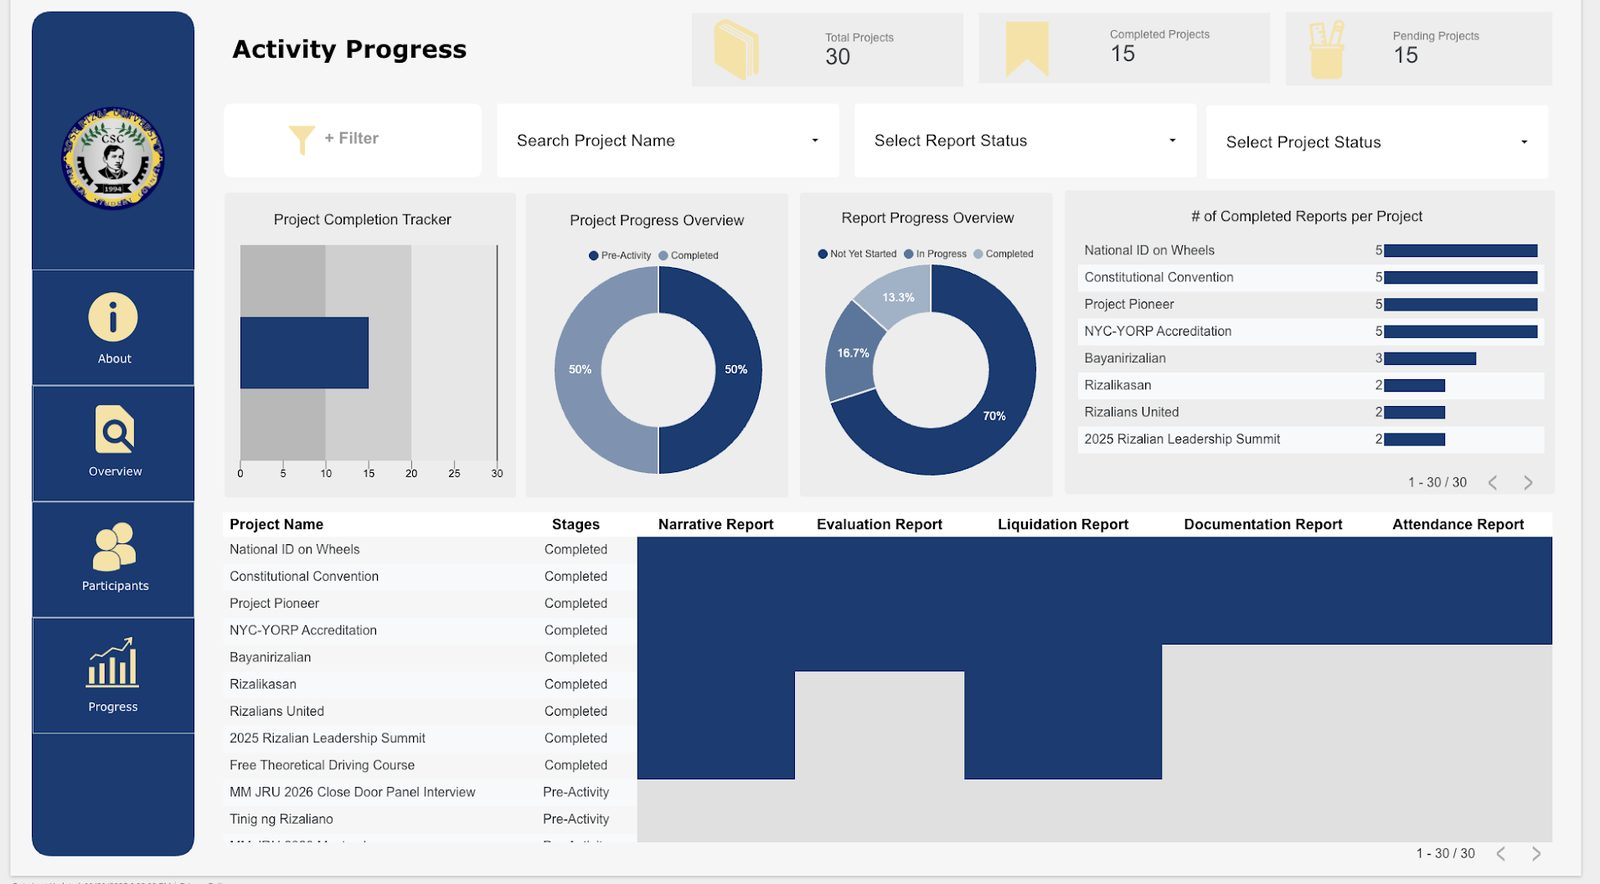
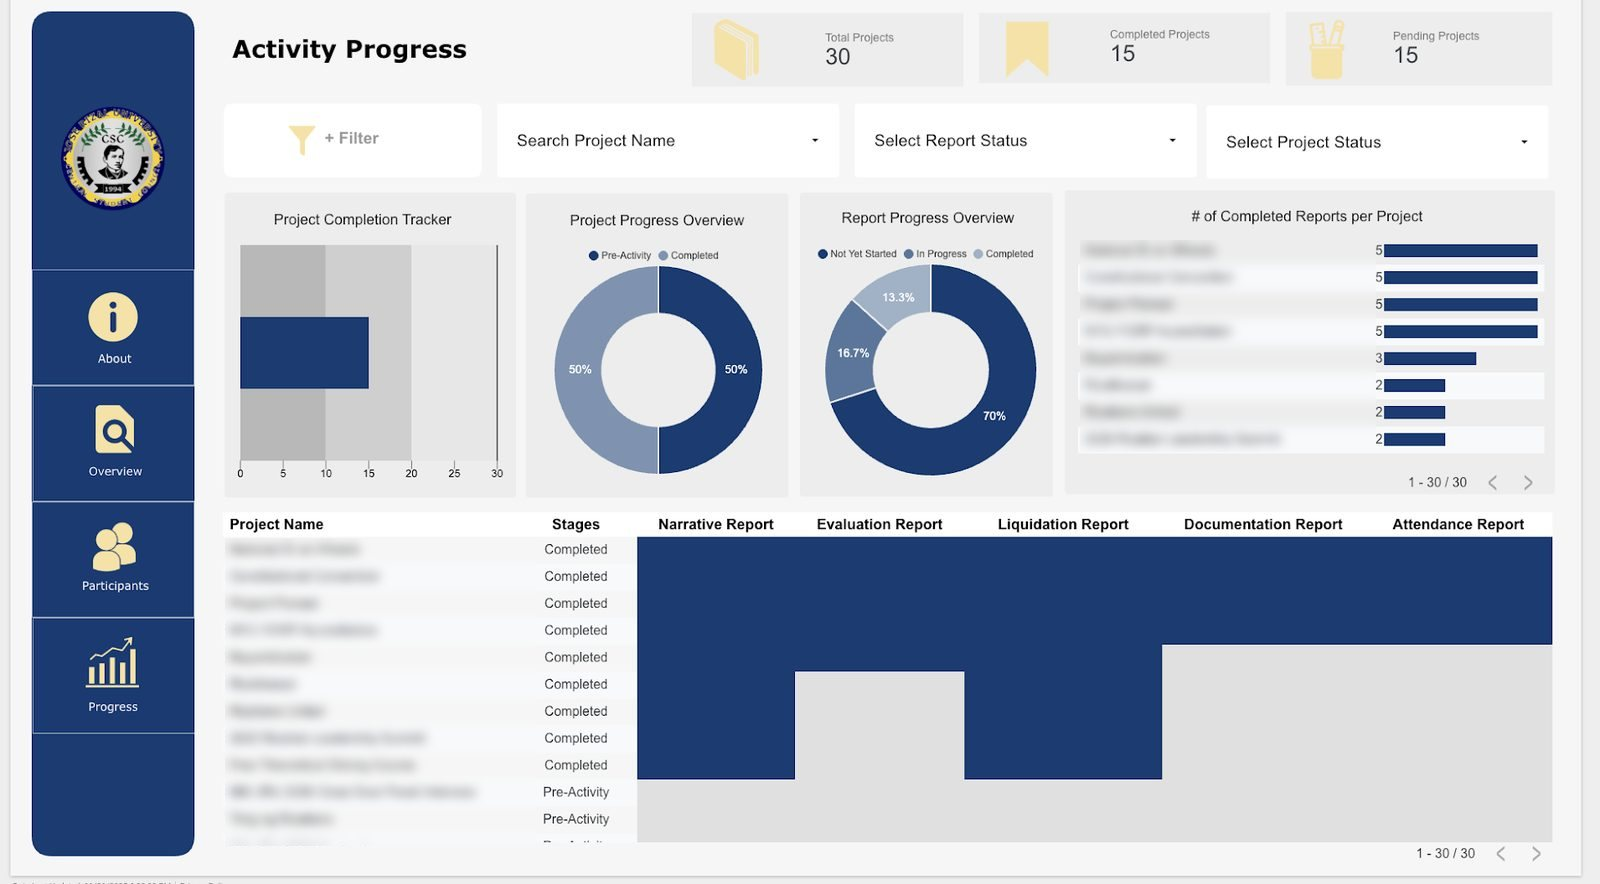
Update portfolio site to v1.2.0
Remove coursework filter, fix dangling intro lines, blur names in dashboard screenshots.

Changed region(s): [[0.125, 0.6109, 0.3125, 0.9468], [0.6562, 0.2749, 0.8125, 0.5192]]

diff --git a/coursework.html b/coursework.html
@@ -27,20 +27,20 @@
 
 <header class="page-head">
   <div class="wrap">
-    <p class="eyebrow">2023 &ndash; 2026</p>
     <h1>Coursework</h1>
-    <p>More analytics work from my four years at José Rizal University, beyond the <a href="index.html#projects">featured projects</a>. Most are IEEE-format reports; each opens as a PDF.</p>
+    <p>More analytics work from my four years at JRU, beyond the <a href="index.html#projects">featured projects</a>. Click a preview to open the report.</p>
   </div>
 </header>
 
 <main>
-<section>
+<section class="coursework-list">
   <div class="wrap">
 
-    <div class="year">
+    <div class="year" data-year="4">
       <h3>4th year</h3>
       <div class="cards">
         <article class="card">
+          <a class="thumb" href="files/C611_Chunk_Size_Experiment_Report.pdf" target="_blank" rel="noopener"><img src="assets/cw_C611_Chunk_Size_Experiment_Report.jpg" alt="Preview: Chunk size and overlap for FAISS retrieval: a controlled experiment" loading="lazy"></a>
           <p class="tag">ITC C611 · Analytics Application</p>
           <h4>Chunk size and overlap for FAISS retrieval: a controlled experiment</h4>
           <p>Fifteen chunking configurations, each with its own FAISS index, scored on 30 verified questions over a student-organization constitution, with bootstrap confidence intervals and Holm-corrected tests. Chunk size mattered; overlap barely did.</p>
@@ -49,6 +49,7 @@
           <div class="links"><a class="btn ghost small" href="files/C611_Chunk_Size_Experiment_Report.pdf" target="_blank" rel="noopener">Read report</a></div>
         </article>
         <article class="card">
+          <a class="thumb" href="files/C611_RAG_Tuning_GPU_Testing_Report.pdf" target="_blank" rel="noopener"><img src="assets/cw_C611_RAG_Tuning_GPU_Testing_Report.jpg" alt="Preview: RAG chatbot parameter tuning and GPU testing" loading="lazy"></a>
           <p class="tag">ITC C611 · Analytics Application</p>
           <h4>RAG chatbot parameter tuning and GPU testing</h4>
           <p>Tuned chunk size, overlap and top-k for a constitution chatbot, scoring answer quality on 30 verified questions, then benchmarked three configurations on a T4 GPU against a CPU-only runtime.</p>
@@ -57,6 +58,7 @@
           <div class="links"><a class="btn ghost small" href="files/C611_RAG_Tuning_GPU_Testing_Report.pdf" target="_blank" rel="noopener">Read report</a></div>
         </article>
         <article class="card">
+          <a class="thumb" href="files/C611_PT-P2_Keras_Hyperparameter_Ablation_Report.pdf" target="_blank" rel="noopener"><img src="assets/cw_C611_PT-P2_Keras_Hyperparameter_Ablation_Report.jpg" alt="Preview: Hyperparameter ablation and loss diagnostics in Keras" loading="lazy"></a>
           <p class="tag">ITC C611 · Analytics Application</p>
           <h4>Hyperparameter ablation and loss diagnostics in Keras</h4>
           <p>Rebuilt an airline-feedback text classifier in Keras and ran seven experiments on learning rate, layer size, dropout, optimizer, batch size and epochs, using loss curves to diagnose underfitting and overfitting.</p>
@@ -65,6 +67,7 @@
           <div class="links"><a class="btn ghost small" href="files/C611_PT-P2_Keras_Hyperparameter_Ablation_Report.pdf" target="_blank" rel="noopener">Read report</a></div>
         </article>
         <article class="card">
+          <a class="thumb" href="files/C611_PT-P1_Neural_Text_Classification_Report.pdf" target="_blank" rel="noopener"><img src="assets/cw_C611_PT-P1_Neural_Text_Classification_Report.jpg" alt="Preview: Neural text classification for airline customer feedback triage" loading="lazy"></a>
           <p class="tag">ITC C611 · Analytics Application</p>
           <h4>Neural text classification for airline customer feedback triage</h4>
           <p>A no-code neural classifier that sorts simulated airline feedback into four classes. Beyond the required tests, I scaled up the training set and ran adversarial rounds that exposed shortcut learning.</p>
@@ -73,6 +76,7 @@
           <div class="links"><a class="btn ghost small" href="files/C611_PT-P1_Neural_Text_Classification_Report.pdf" target="_blank" rel="noopener">Read report</a></div>
         </article>
         <article class="card">
+          <a class="thumb" href="files/C611_PT-M1_Governance_Chatbot_Report.pdf" target="_blank" rel="noopener"><img src="assets/cw_C611_PT-M1_Governance_Chatbot_Report.jpg" alt="Preview: A retrieval-augmented chatbot for student-organization governance" loading="lazy"></a>
           <p class="tag">ITC C611 · Analytics Application</p>
           <h4>A retrieval-augmented chatbot for student-organization governance</h4>
           <p>Evaluated a RAG chatbot over the JPCS-JRU Constitution and By-Laws on grounding and refusal, across three configurations and five sessions. Removing the fallback directive changed how it refused, not whether it refused.</p>
@@ -83,10 +87,11 @@
       </div>
     </div>
 
-    <div class="year">
+    <div class="year" data-year="3">
       <h3>3rd year</h3>
       <div class="cards">
         <article class="card">
+          <a class="thumb" href="files/C610_HR_Predictive_Modeling_Report.pdf" target="_blank" rel="noopener"><img src="assets/cw_C610_HR_Predictive_Modeling_Report.jpg" alt="Preview: Predictive modeling in human resources" loading="lazy"></a>
           <p class="tag">ITC C610 · Fundamentals of Analytics Modelling</p>
           <h4>Predictive modeling in human resources</h4>
           <p>A case-study review of a published study on predicting employee turnover, covering the business problem, the IBM HR Analytics dataset, the key predictors, and how four classifiers were compared.</p>
@@ -97,10 +102,11 @@
       </div>
     </div>
 
-    <div class="year">
+    <div class="year" data-year="2">
       <h3>2nd year</h3>
       <div class="cards">
         <article class="card">
+          <a class="thumb" href="files/C605_LA_Traffic_Collisions_Report.pdf" target="_blank" rel="noopener"><img src="assets/cw_C605_LA_Traffic_Collisions_Report.jpg" alt="Preview: Data analysis of traffic collisions in Los Angeles" loading="lazy"></a>
           <p class="tag">ITC C605 · Statistical Analysis Using R</p>
           <h4>Data analysis of traffic collisions in Los Angeles</h4>
           <p>Cleaning, demographic and time-pattern EDA, and a leaflet map of LAPD collision data. A regression that broke its assumptions was fixed with a log transformation.</p>
@@ -109,6 +115,7 @@
           <div class="links"><a class="btn ghost small" href="files/C605_LA_Traffic_Collisions_Report.pdf" target="_blank" rel="noopener">Read report</a></div>
         </article>
         <article class="card">
+          <a class="thumb" href="files/C605_R_Pipes_Data_Operations_Report.pdf" target="_blank" rel="noopener"><img src="assets/cw_C605_R_Pipes_Data_Operations_Report.jpg" alt="Preview: Basic analysis and data operations using R pipes" loading="lazy"></a>
           <p class="tag">ITC C605 · Statistical Analysis Using R</p>
           <h4>Basic analysis and data operations using R pipes</h4>
           <p>Cleaned and analysed the UCI Online Retail dataset with dplyr pipes, filtering out non-revenue entries and calculating transaction totals.</p>
@@ -117,6 +124,7 @@
           <div class="links"><a class="btn ghost small" href="files/C605_R_Pipes_Data_Operations_Report.pdf" target="_blank" rel="noopener">Read report</a></div>
         </article>
         <article class="card">
+          <a class="thumb" href="files/C605_AFL_Analysis_Report.pdf" target="_blank" rel="noopener"><img src="assets/cw_C605_AFL_Analysis_Report.jpg" alt="Preview: Analysis of the Australian Football League using R" loading="lazy"></a>
           <p class="tag">ITC C605 · Statistical Analysis Using R</p>
           <h4>Analysis of the Australian Football League using R</h4>
           <p>Descriptive statistics on AFL match margins and finalists in RStudio, documenting the commands used, the errors met and how each was fixed.</p>
@@ -127,10 +135,11 @@
       </div>
     </div>
 
-    <div class="year">
+    <div class="year" data-year="1">
       <h3>1st year</h3>
       <div class="cards">
         <article class="card">
+          <a class="thumb" href="assets/cw_C604_Excel.jpg" target="_blank" rel="noopener"><img src="assets/cw_C604_Excel.jpg" alt="Preview: Consumer shopping behavior: Excel analysis" loading="lazy"></a>
           <p class="tag">ITC C604 · Data Analysis Using Excel</p>
           <h4>Consumer shopping behavior: Excel analysis</h4>
           <p>Computed the percentage change in each customer's purchases, split customers into top and bottom groups, and compared them with descriptive statistics, conditional formatting, a histogram and an outlier check.</p>
@@ -144,6 +153,7 @@
   </div>
 </section>
 </main>
+
 
 <footer>
   <div class="wrap">

diff --git a/index.html b/index.html
@@ -50,12 +50,35 @@
     <div class="section-head">
       <div>
         <h2>Featured projects</h2>
-        <p>Selected work from my analytics courses and capstone. Reports open as PDFs; live apps open in a new tab.</p>
+        <p>Selected work from my analytics courses and capstone.</p>
       </div>
       <a class="btn ghost small" href="coursework.html">All coursework &rarr;</a>
     </div>
 
     <div class="projects">
+
+      <!-- 1. AURA (capstone) -->
+      <article class="project">
+        <div>
+          <p class="tag">ITC C310 / C403 · IT Project (Capstone) · 2026</p>
+          <h3>AURA: retention analytics for a real client</h3>
+          <p>Our capstone, built for the Analytics and AI Association of the Philippines. AURA pulls the association's membership, event, registration, attendance and survey records into one system, then flags members who are likely to lapse and explains each flag in plain language.</p>
+          <ul class="stats">
+            <li><div class="num">2.7&times;</div><div class="lbl">Better than chance at spotting lapses (PR-AUC 0.516 vs 0.192)</div></li>
+            <li><div class="num">4.22 / 5</div><div class="lbl">Rating from 30 evaluators (ISO/IEC 25010)</div></li>
+          </ul>
+          <p class="role">System Developer, team of two · cleaned 1,790 member records and 43 engagement files, built the retention model, and delivered every change our panel requested</p>
+          <ul class="chips"><li>Python</li><li>scikit-learn</li><li>SMOTE-NC</li><li>SHAP</li><li>PostgreSQL</li></ul>
+          <div class="links">
+            <a class="btn ghost small" href="https://aapreportsandanalytics.org" target="_blank" rel="noopener">Live system (login required)</a>
+          </div>
+          <p class="note">AURA is a private client system, so its documents and data stay private.</p>
+        </div>
+        <a class="media cover" href="https://aapreportsandanalytics.org" target="_blank" rel="noopener">
+          <img src="assets/prev_aura.jpg" alt="AURA logo" loading="lazy">
+          <span class="cap">Private client system</span>
+        </a>
+      </article>
 
       <!-- 1. RAG chatbot -->
       <article class="project">
@@ -104,29 +127,6 @@
         <a class="media navy" href="files/C612_EBEWE_Data_Story.pdf" target="_blank" rel="noopener">
           <img src="assets/prev_ebewe.jpg" alt="Cover slide of the data story: When a building fails, what actually failed?" loading="lazy">
           <span class="cap">Data story</span>
-        </a>
-      </article>
-
-      <!-- 3. AURA -->
-      <article class="project">
-        <div>
-          <p class="tag">ITC C310 / C403 · IT Project (Capstone) · 2026</p>
-          <h3>AURA: retention analytics for a real client</h3>
-          <p>Our capstone, built for the Analytics and AI Association of the Philippines. AURA pulls the association's membership, event, registration, attendance and survey records into one system, then flags members who are likely to lapse and explains each flag in plain language.</p>
-          <ul class="stats">
-            <li><div class="num">2.7&times;</div><div class="lbl">Better than chance at spotting lapses (PR-AUC 0.516 vs 0.192)</div></li>
-            <li><div class="num">4.22 / 5</div><div class="lbl">Rating from 30 evaluators (ISO/IEC 25010)</div></li>
-          </ul>
-          <p class="role">System Developer, team of two · cleaned 1,790 member records and 43 engagement files, built the retention model, and delivered every change our panel requested</p>
-          <ul class="chips"><li>Python</li><li>scikit-learn</li><li>SMOTE-NC</li><li>SHAP</li><li>PostgreSQL</li></ul>
-          <div class="links">
-            <a class="btn ghost small" href="https://aapreportsandanalytics.org" target="_blank" rel="noopener">Live system (login required)</a>
-          </div>
-          <p class="note">AURA is a private client system, so its documents and data stay private.</p>
-        </div>
-        <a class="media cover" href="https://aapreportsandanalytics.org" target="_blank" rel="noopener">
-          <img src="assets/prev_aura.jpg" alt="AURA logo" loading="lazy">
-          <span class="cap">Private client system</span>
         </a>
       </article>
 
@@ -212,16 +212,10 @@
           <ul class="chips"><li>Excel</li><li>VBA</li><li>Macros</li></ul>
           <p class="note">Workbook available on request.</p>
         </div>
-        <div class="media tile">
-          <div class="grid">
-            <span class="on"></span><span class="on"></span><span class="on"></span><span class="on"></span><span class="on"></span>
-            <span></span><span></span><span></span><span></span><span></span>
-            <span></span><span></span><span></span><span></span><span></span>
-            <span></span><span></span><span></span><span></span><span></span>
-          </div>
-          <span class="big" style="font-size:30px">Excel &middot; VBA</span>
-          <span class="small">Contact manager</span>
-        </div>
+        <a class="media cover" href="assets/prev_vba.jpg" target="_blank" rel="noopener">
+          <img src="assets/prev_vba.jpg" alt="Contact Manager workbook with entry form and contact list" loading="lazy">
+          <span class="cap">Workbook screenshot</span>
+        </a>
       </article>
 
     </div>
@@ -274,7 +268,7 @@
 
 <section id="experience">
   <div class="wrap">
-    <div class="section-head"><div><h2>Leadership</h2><p>Student leadership at the Junior Philippine Computer Society, JRU Chapter, and the NCR Alliance of DOST Scholars.</p></div></div>
+    <div class="section-head"><div><h2>Leadership</h2><p>Student leadership at JPCS-JRU and the NCR Alliance of DOST Scholars.</p></div></div>
     <ul class="timeline">
       <li>
         <div class="when">AY 2026 &ndash; present</div>

diff --git a/assets/style.css b/assets/style.css
@@ -54,9 +54,9 @@ img { max-width: 100%; display: block; }
 
 /* Hero */
 .hero { padding: 88px 0 72px; border-bottom: 1px solid var(--line); }
-.hero .wrap { display: grid; grid-template-columns: 1fr 260px; gap: 56px; align-items: center; }
+.hero .wrap { display: grid; grid-template-columns: minmax(0, 1fr) 220px; gap: 48px; align-items: center; }
 .eyebrow { font-size: 13px; font-weight: 600; letter-spacing: .08em; text-transform: uppercase; color: var(--muted); margin: 0 0 14px; }
-.hero h1 { font-size: clamp(34px, 5vw, 52px); line-height: 1.08; letter-spacing: -0.03em; margin: 0 0 18px; }
+.hero h1 { font-size: clamp(28px, 3.3vw, 40px); line-height: 1.1; letter-spacing: -0.03em; margin: 0 0 18px; white-space: nowrap; }
 .hero .lead { font-size: 18px; color: var(--ink-2); max-width: 600px; margin: 0 0 28px; }
 .hero .actions { display: flex; flex-wrap: wrap; gap: 10px; }
 .status {
@@ -65,7 +65,7 @@ img { max-width: 100%; display: block; }
 }
 .status::before { content: ""; width: 8px; height: 8px; border-radius: 50%; background: var(--ink); }
 .photo {
-  width: 260px; height: 260px; border-radius: 50%; object-fit: cover;
+  width: 220px; height: 220px; border-radius: 50%; object-fit: cover;
   border: 1px solid var(--line); filter: grayscale(8%);
 }
 
@@ -74,7 +74,7 @@ section { padding: 80px 0; border-bottom: 1px solid var(--line); }
 section:last-of-type { border-bottom: none; }
 .section-head { display: flex; align-items: end; justify-content: space-between; gap: 24px; margin-bottom: 36px; flex-wrap: wrap; }
 .section-head h2 { font-size: 30px; letter-spacing: -0.02em; margin: 0; }
-.section-head p { margin: 6px 0 0; color: var(--muted); max-width: 560px; }
+.section-head p { margin: 6px 0 0; color: var(--muted); }
 
 /* Project cards */
 .projects { display: grid; gap: 20px; }
@@ -180,12 +180,13 @@ footer .wrap { display: flex; justify-content: space-between; flex-wrap: wrap; g
 /* Page header (coursework) */
 .page-head { padding: 72px 0 40px; border-bottom: 1px solid var(--line); }
 .page-head h1 { font-size: clamp(30px, 4.5vw, 44px); letter-spacing: -0.03em; margin: 0 0 12px; }
-.page-head p { color: var(--ink-2); max-width: 640px; margin: 0; font-size: 17px; }
+.page-head p { color: var(--ink-2); margin: 0; font-size: 17px; }
 
 /* Responsive */
 @media (max-width: 860px) {
   .hero .wrap { grid-template-columns: 1fr; gap: 32px; }
-  .photo { width: 180px; height: 180px; order: -1; }
+  .photo { width: 160px; height: 160px; order: -1; }
+  .hero h1 { white-space: normal; font-size: clamp(30px, 8vw, 40px); }
   .project { grid-template-columns: 1fr; gap: 20px; }
   .project .media { order: -1; }
   .about-grid, .cols, .cards { grid-template-columns: 1fr; gap: 32px; }
@@ -198,4 +199,28 @@ footer .wrap { display: flex; justify-content: space-between; flex-wrap: wrap; g
   section { padding: 60px 0; }
   .skills { grid-template-columns: 1fr; }
   .gallery { grid-template-columns: 1fr; }
+  .hero .lead, .section-head p, .project p, .card p, .about-grid p, .timeline p, .page-head p, .contact p { text-align: left; }
 }
+
+/* Justified paragraph text */
+.hero .lead, .section-head p, .project p, .card p, .about-grid p, .timeline p, .page-head p, .contact p {
+  text-align: justify; hyphens: auto; -webkit-hyphens: auto;
+}
+.project p.note, .project p.role { text-align: left; }
+
+/* Coursework card previews */
+.card .thumb {
+  display: block; margin: -22px -22px 18px; border-bottom: 1px solid var(--line);
+  border-radius: var(--radius) var(--radius) 0 0; overflow: hidden; background: var(--soft); aspect-ratio: 16 / 9;
+}
+.card .thumb img { width: 100%; height: 100%; object-fit: cover; object-position: top center; transition: transform .25s ease; }
+.card .thumb:hover img { transform: scale(1.03); }
+.card { overflow: hidden; }
+
+.page-head { padding: 64px 0 32px; }
+.coursework-list { padding-top: 48px; }
+.year[hidden] { display: none; }
+
+/* Avoid single dangling words at the end of paragraphs */
+p { text-wrap: pretty; }
+.section-head p, .page-head p { text-align: left; }

diff --git a/CHANGELOG.md b/CHANGELOG.md
@@ -1,5 +1,25 @@
 # Changelog
 
+## [1.2.0] – 2026-11-26
+### Removed
+- Year filter on the coursework page (year headings kept).
+
+### Changed
+- Shortened the Featured projects, Leadership and Coursework intros so each fits on one line; paragraphs avoid single dangling words.
+- Lightly blurred program, college, event and project names in the dashboard screenshots.
+
+## [1.1.0] – 2026-11-26
+### Added
+- Report preview image on every coursework card; clicking it opens the report.
+- Year filter (All, 4th, 3rd, 2nd, 1st year) on the coursework page.
+- Workbook screenshot for the Excel VBA Contact Manager, with personal details blurred.
+
+### Changed
+- AURA capstone is now the first featured project.
+- Paragraph text is justified (left-aligned on small phones for readability).
+- Name in the header fits on one line on desktop.
+- Coursework header tidied: removed the year label and tightened spacing.
+
 ## [1.0.0] – 2026-11-26
 ### Added
 - Landing page with intro, 7 featured projects (RAG chatbot, EBEWE ranking model, AURA capstone, LA payroll overtime classifier, CSC Events Analytics Dashboard, statistical modeling in R, Excel VBA Contact Manager), about, skills, leadership, honors and certifications, and contact sections.
